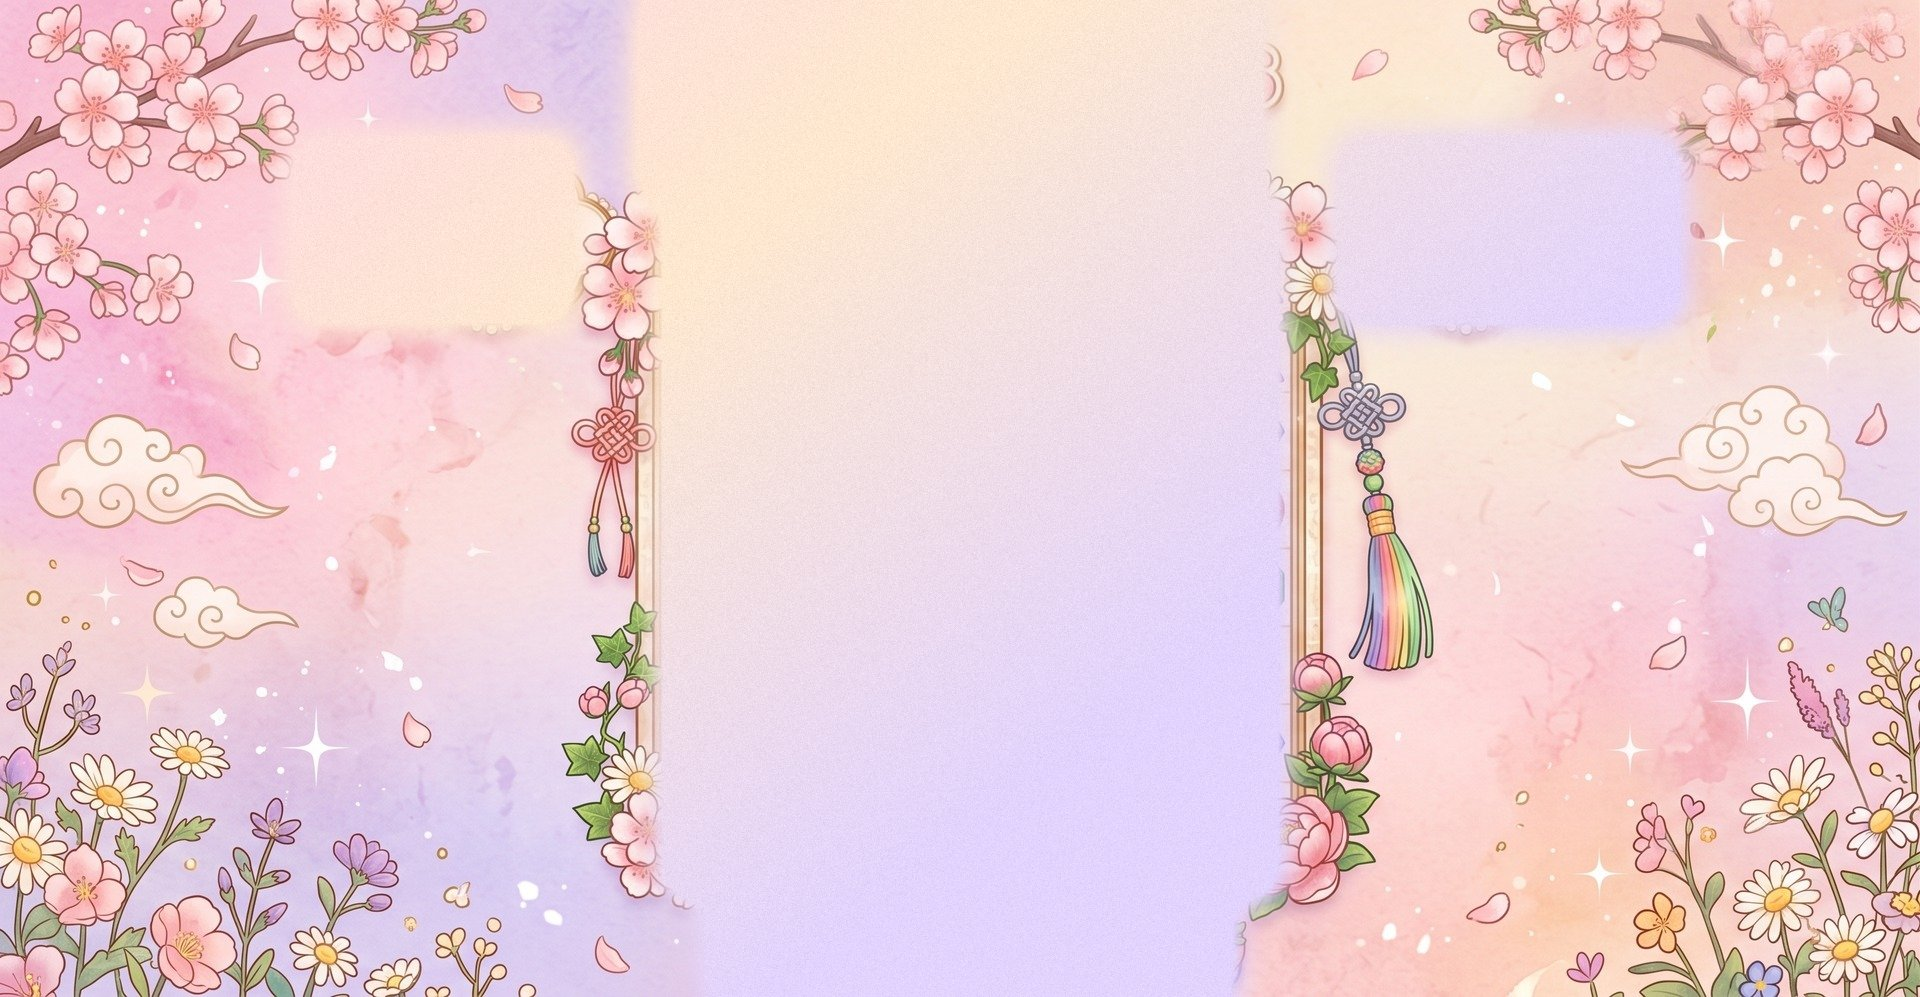
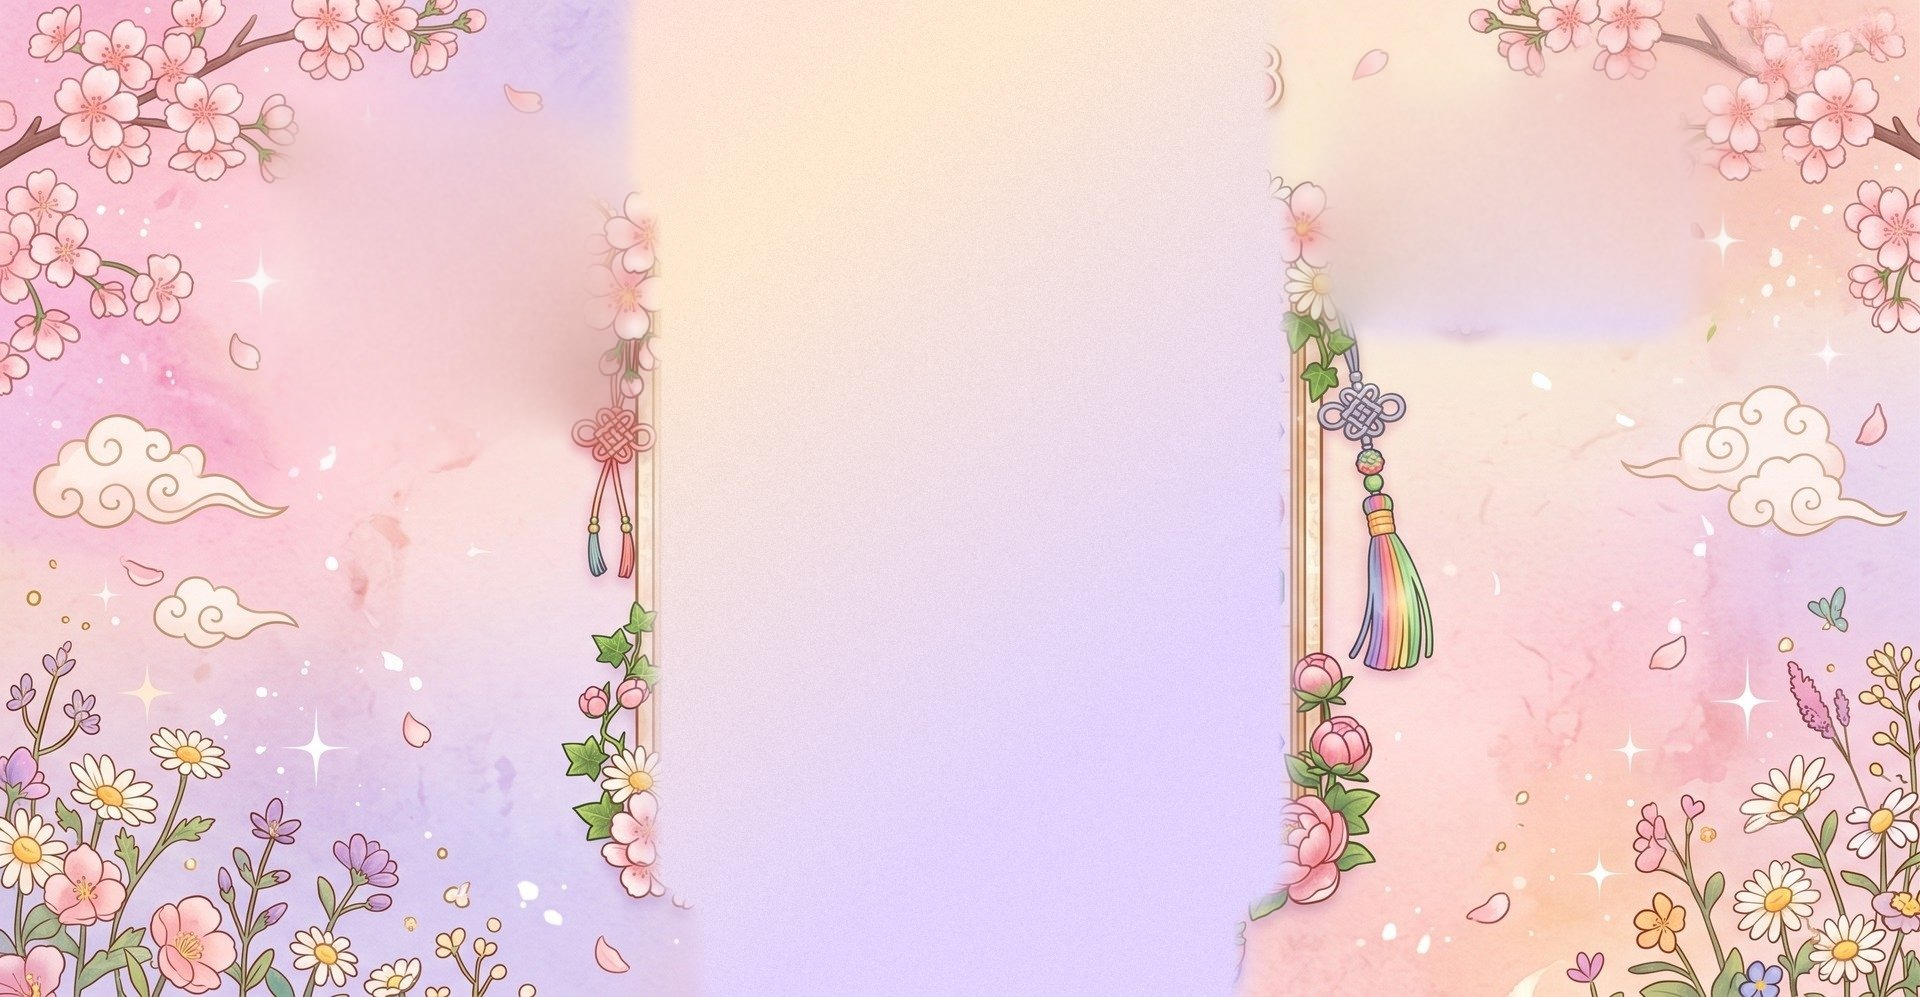
Fix background: remove flat placeholder boxes, restore decorations on mobile
The owner's mockup photo (public/bg-mockup.jpg) had two hard-edged,
flat-colored rectangles left over from whatever tool first produced it
-- visible as "boxes that don't fit" on wide/desktop viewports where
cover-fit doesn't crop them away. Fixed the image itself: located both
regions, filled them with a multi-resolution harmonic (Laplace)
diffusion fill seeded from the real surrounding gradient, then added
matching fine grain and soft watercolor-blotch noise so the fill
doesn't read as a flat patch next to the photo's own paper texture.

Separately, the photo's cover-fit sizing crops so aggressively on tall
portrait phones that the mockup's own edge decorations (tassels,
corner blossoms) fall entirely outside the visible window -- confirmed
against a user screenshot, and reproduced headlessly across several
viewport sizes. Restored drawCloud/drawSparkle/drawPetal/drawBranch/
drawTasselKnot in deco.ts (present before an earlier commit replaced
the procedural background with this photo, then removed them) and
added a viewport-relative decoration layer in bg.ts, drawn on top of
the photo only when cover-fit would hide more than about half the
image's width -- true portrait, not just a narrower desktop window --
so it can't be cropped out and doesn't double up with the photo's own
decorations on wider screens.

Changed region(s): [[0.6875, 0.1244, 0.9062, 0.342], [0.1875, 0.1555, 0.3438, 0.4353], [0.1562, 0.1555, 0.1875, 0.1866]]

diff --git a/src/bg.ts b/src/bg.ts
@@ -1,5 +1,31 @@
-// Page background: the owner's reference mockup image, drawn cover-fit. Falls
-// back to a plain gradient (matching the mockup's own tones) until it loads.
+// Page background: the owner's reference mockup image, drawn cover-fit. On a
+// narrow/tall (portrait phone) viewport, cover-fit crops so much off the sides
+// that the mockup's own edge decorations (tassels, corner blossoms) fall
+// entirely outside the visible window -- so on those aspect ratios a
+// procedural decoration layer (same look, viewport-relative so it can't be
+// cropped out) is drawn on top to restore them. Falls back to a plain
+// gradient (matching the mockup's own tones) until the image loads.
+
+import {
+  FLOWER_COLORS,
+  drawBranch,
+  drawCloud,
+  drawFlower,
+  drawLeaf,
+  drawPetal,
+  drawSparkle,
+  drawTasselKnot,
+} from './deco.ts';
+import { mulberry32 } from './board.ts';
+
+type Ctx2D = CanvasRenderingContext2D;
+
+const DAISY: [string, string] = ['#ffffff', '#ffd84d'];
+const LAVENDER: [string, string] = ['#d8c2f5', '#b393e0'];
+const PEONY_COLORS: Array<[string, string]> = [
+  ['#ffb6c9', '#e85d8a'],
+  ['#ffc2d6', '#ff6f91'],
+];
 
 let bgImage: HTMLImageElement | null = null;
 let bgImageReady = false;
@@ -25,6 +51,128 @@ function fillFallbackGradient(ctx: CanvasRenderingContext2D, w: number, h: numbe
   ctx.fillRect(0, 0, w, h);
 }
 
+function stem(ctx: Ctx2D, x0: number, y0: number, x1: number, y1: number, color: string, w: number): void {
+  ctx.save();
+  ctx.strokeStyle = color;
+  ctx.lineWidth = w;
+  ctx.lineCap = 'round';
+  ctx.beginPath();
+  ctx.moveTo(x0, y0);
+  ctx.quadraticCurveTo((x0 + x1) / 2 + (y0 - y1) * 0.08, (y0 + y1) / 2, x1, y1);
+  ctx.stroke();
+  ctx.restore();
+}
+
+/** A branch of cherry blossoms growing in from a page corner. */
+function blossomBranch(ctx: Ctx2D, cx: number, cy: number, dirX: number, dirY: number, len: number): void {
+  const angle = Math.atan2(dirY, dirX);
+  drawBranch(ctx, cx, cy, len, angle, '#8a5a42');
+  const blossoms = 5;
+  for (let i = 0; i < blossoms; i++) {
+    const t = 0.22 + (i / (blossoms - 1)) * 0.72;
+    const perp = i % 2 ? 1 : -1;
+    const bx = cx + dirX * len * t - dirY * perp * len * 0.05;
+    const by = cy + dirY * len * t + dirX * perp * len * 0.05;
+    const r = len * (0.07 + (i % 3) * 0.018);
+    const [petal, center] = FLOWER_COLORS[i % FLOWER_COLORS.length]!;
+    drawLeaf(ctx, bx, by, r * 1.4, angle - 0.9, '#9bc9a0');
+    drawFlower(ctx, bx, by, r, petal, center, 5, i * 0.7);
+  }
+}
+
+/** Viewport-relative decorations (tassels, blossom branches, scattered flowers) that
+ * can't be cropped out by the mockup photo's cover-fit, since they aren't part of it. */
+function drawProceduralDecoration(ctx: Ctx2D, w: number, h: number): void {
+  const rng = mulberry32(2026);
+  const unit = Math.min(w, h);
+
+  ctx.globalAlpha = 0.55;
+  for (let i = 0; i < 10; i++) {
+    const [petal] = FLOWER_COLORS[Math.floor(rng() * FLOWER_COLORS.length)]!;
+    drawPetal(ctx, rng() * w, rng() * h, unit * (0.01 + rng() * 0.012), rng() * Math.PI * 2, petal);
+  }
+
+  ctx.globalAlpha = 0.85;
+  for (let i = 0; i < 12; i++) {
+    drawSparkle(ctx, rng() * w, rng() * h, unit * (0.006 + rng() * 0.01), '#ffffff', 0.7 + rng() * 0.3);
+  }
+
+  // Traditional Korean cloud (구름) motifs, drifting mid-height on each side.
+  ctx.globalAlpha = 1;
+  drawCloud(ctx, w * 0.1, h * 0.36, unit * 0.16, '#c9943a', 0.3);
+  drawCloud(ctx, w * 0.06, h * 0.56, unit * 0.12, '#c9943a', 0.22);
+  drawCloud(ctx, w * 0.9, h * 0.34, unit * 0.15, '#c9943a', 0.28);
+  drawCloud(ctx, w * 0.94, h * 0.58, unit * 0.11, '#c9943a', 0.22);
+
+  // Scattered small flowers for general texture.
+  const count = Math.round((w * h) / 30000);
+  for (let i = 0; i < count; i++) {
+    const x = rng() * w;
+    const y = rng() * h;
+    const r = unit * (0.028 + rng() * 0.04);
+    const [petal, center] = FLOWER_COLORS[Math.floor(rng() * FLOWER_COLORS.length)]!;
+    ctx.globalAlpha = 0.5;
+    drawLeaf(ctx, x, y, r * 1.5, rng() * Math.PI * 2, '#9bc9a0');
+    drawFlower(ctx, x, y, r, petal, center, 5, rng() * Math.PI);
+  }
+
+  // Top corners: blossom branches reaching in.
+  ctx.globalAlpha = 0.95;
+  blossomBranch(ctx, 0, 0, 1, 0.22, unit * 0.34);
+  blossomBranch(ctx, w, 0, -1, 0.22, unit * 0.34);
+
+  // Hanging knot-tassel ornaments flanking the board (approximate position --
+  // the board itself is centered by CSS grid, so this estimates where its
+  // edges typically sit rather than reading the live layout).
+  ctx.globalAlpha = 0.95;
+  const tasselY = h * 0.3;
+  const tasselSize = unit * 0.16;
+  drawTasselKnot(ctx, w / 2 - unit * 0.47, tasselY, tasselSize, '#d98fae', ['#ff9ab0', '#ff7a98']);
+  drawTasselKnot(ctx, w / 2 + unit * 0.47, tasselY, tasselSize, '#8899b0', ['#ff9ab0', '#ffd84d', '#7ec8ff', '#c59bff']);
+
+  // Bottom-left: a daisy/wildflower patch.
+  ctx.globalAlpha = 0.95;
+  {
+    const bx = 0;
+    const by = h;
+    for (let i = 0; i < 6; i++) {
+      const sx = bx + unit * (0.02 + i * 0.028);
+      const sy = by - unit * (0.03 + (i % 3) * 0.02);
+      stem(ctx, bx + unit * 0.01, by, sx, sy, '#6fae7a', Math.max(1.5, unit * 0.0035));
+      const isAccent = i % 3 === 1;
+      const [petal, center] = isAccent ? LAVENDER : DAISY;
+      drawFlower(ctx, sx, sy, unit * (0.022 + (i % 2) * 0.008), petal, center, isAccent ? 6 : 10, i);
+    }
+  }
+
+  // Bottom-right: a fuller peony cluster.
+  ctx.globalAlpha = 0.95;
+  {
+    const bx = w;
+    const by = h;
+    const blooms: Array<[number, number, number]> = [
+      [-0.1, -0.09, 0.05],
+      [-0.045, -0.055, 0.04],
+      [-0.09, -0.03, 0.032],
+    ];
+    for (const [dx, dy, r] of blooms) {
+      const px = bx + unit * dx;
+      const py = by + unit * dy;
+      drawLeaf(ctx, px, py, unit * r * 1.6, Math.PI * 0.8, '#7fd391');
+      drawLeaf(ctx, px, py, unit * r * 1.3, Math.PI * 1.2, '#9bc9a0');
+    }
+    for (let i = 0; i < blooms.length; i++) {
+      const [dx, dy, r] = blooms[i]!;
+      const [petal, center] = PEONY_COLORS[i % PEONY_COLORS.length]!;
+      drawFlower(ctx, bx + unit * dx, by + unit * dy, unit * r, petal, center, 9, i * 0.5);
+    }
+    drawFlower(ctx, bx - unit * 0.14, by - unit * 0.02, unit * 0.02, ...DAISY, 10, 1);
+    drawFlower(ctx, bx - unit * 0.02, by - unit * 0.12, unit * 0.018, ...DAISY, 10, 2);
+  }
+
+  ctx.globalAlpha = 1;
+}
+
 /** Paints the page background from the reference mockup image, cover-fit and centered. */
 export function drawBackground(canvas: HTMLCanvasElement): void {
   const w = window.innerWidth;
@@ -48,4 +196,15 @@ export function drawBackground(canvas: HTMLCanvasElement): void {
   const dx = (w - dw) / 2;
   const dy = (h - dh) / 2;
   ctx.drawImage(img, dx, dy, dw, dh);
+
+  // The mockup's own tassels sit about 31% of its width in from each edge.
+  // Cover-fit only crops them out once the visible fraction of the image's
+  // width drops below that -- true portrait phones/tablets, not a merely
+  // wide-but-not-square desktop window. Below that point, restore them
+  // procedurally instead of leaving them cropped off screen.
+  const imageAspect = img.naturalWidth / img.naturalHeight;
+  const visibleWidthFraction = Math.min(1, w / h / imageAspect);
+  if (visibleWidthFraction < 0.5) {
+    drawProceduralDecoration(ctx, w, h);
+  }
 }

diff --git a/src/deco.ts b/src/deco.ts
@@ -73,3 +73,146 @@ export function drawLeaf(ctx: Ctx2D, x: number, y: number, len: number, angle: n
   ctx.stroke();
   ctx.restore();
 }
+
+/** Traditional Korean cloud (구름) motif. */
+export function drawCloud(ctx: Ctx2D, x: number, y: number, w: number, color: string, alpha = 0.4): void {
+  ctx.save();
+  ctx.translate(x, y);
+  ctx.globalAlpha *= alpha;
+  ctx.strokeStyle = color;
+  ctx.lineCap = 'round';
+  ctx.lineJoin = 'round';
+  const r = w * 0.17;
+  ctx.lineWidth = Math.max(1.5, r * 0.26);
+
+  // A continuous scalloped silhouette: three overlapping lobes along a shared
+  // baseline, traced as one connected outline rather than separate rings.
+  const lobes: Array<[number, number]> = [
+    [-w * 0.26, 0.85],
+    [0, 1],
+    [w * 0.26, 0.85],
+  ];
+  ctx.beginPath();
+  lobes.forEach(([lx, scale], i) => {
+    const lr = r * scale;
+    if (i === 0) ctx.moveTo(lx - lr, 0);
+    ctx.arc(lx, 0, lr, Math.PI, Math.PI * 2, false);
+  });
+  const [lastX, lastScale] = lobes[lobes.length - 1]!;
+  ctx.lineTo(lastX + r * lastScale * 0.3, r * 0.3);
+  const [firstX, firstScale] = lobes[0]!;
+  ctx.lineTo(firstX - r * firstScale * 0.3, r * 0.3);
+  ctx.closePath();
+  ctx.stroke();
+
+  const swirl = (sx: number, sy: number, dir: number): void => {
+    ctx.beginPath();
+    ctx.moveTo(sx, sy);
+    ctx.bezierCurveTo(
+      sx + dir * r * 0.7,
+      sy - r * 0.5,
+      sx + dir * r * 0.1,
+      sy + r * 0.7,
+      sx + dir * r * 1.0,
+      sy + r * 0.35,
+    );
+    ctx.stroke();
+  };
+  swirl(-w * 0.4, 0, -1);
+  swirl(w * 0.4, -r * 0.55, 1);
+  ctx.restore();
+}
+
+/** Small 4-point sparkle/star accent. */
+export function drawSparkle(ctx: Ctx2D, x: number, y: number, s: number, color: string, alpha = 1): void {
+  ctx.save();
+  ctx.globalAlpha *= alpha;
+  ctx.fillStyle = color;
+  ctx.beginPath();
+  ctx.moveTo(x, y - s);
+  ctx.quadraticCurveTo(x, y, x + s, y);
+  ctx.quadraticCurveTo(x, y, x, y + s);
+  ctx.quadraticCurveTo(x, y, x - s, y);
+  ctx.quadraticCurveTo(x, y, x, y - s);
+  ctx.fill();
+  ctx.restore();
+}
+
+/** A single falling petal, drifting in open space. */
+export function drawPetal(ctx: Ctx2D, x: number, y: number, s: number, angle: number, color: string): void {
+  ctx.save();
+  ctx.translate(x, y);
+  ctx.rotate(angle);
+  ctx.fillStyle = color;
+  ctx.beginPath();
+  ctx.ellipse(0, 0, s * 0.42, s, 0, 0, Math.PI * 2);
+  ctx.fill();
+  ctx.restore();
+}
+
+/** A blossom-branch: a curved woody stem with a couple of twigs, for corner clusters. */
+export function drawBranch(ctx: Ctx2D, x: number, y: number, len: number, angle: number, color: string): void {
+  ctx.save();
+  ctx.translate(x, y);
+  ctx.rotate(angle);
+  ctx.strokeStyle = color;
+  ctx.lineCap = 'round';
+  ctx.lineWidth = Math.max(2, len * 0.035);
+  ctx.beginPath();
+  ctx.moveTo(0, 0);
+  ctx.quadraticCurveTo(len * 0.5, -len * 0.14, len, -len * 0.02);
+  ctx.stroke();
+  ctx.lineWidth = Math.max(1.5, len * 0.022);
+  ctx.beginPath();
+  ctx.moveTo(len * 0.38, -len * 0.07);
+  ctx.quadraticCurveTo(len * 0.48, -len * 0.26, len * 0.6, -len * 0.3);
+  ctx.stroke();
+  ctx.beginPath();
+  ctx.moveTo(len * 0.68, -len * 0.04);
+  ctx.quadraticCurveTo(len * 0.76, -len * 0.2, len * 0.9, -len * 0.22);
+  ctx.stroke();
+  ctx.restore();
+}
+
+/** A hanging ornamental knot + tassel (norigae-style), for flanking the board. */
+export function drawTasselKnot(ctx: Ctx2D, x: number, y: number, s: number, cord: string, strands: string[]): void {
+  ctx.save();
+  ctx.translate(x, y);
+
+  ctx.strokeStyle = cord;
+  ctx.lineCap = 'round';
+  ctx.lineWidth = Math.max(2, s * 0.05);
+  ctx.beginPath();
+  ctx.moveTo(0, -s * 0.95);
+  ctx.quadraticCurveTo(-s * 0.15, -s * 0.55, 0, -s * 0.28);
+  ctx.stroke();
+
+  ctx.lineWidth = Math.max(1.5, s * 0.045);
+  for (let i = 0; i < 3; i++) {
+    const a = (i / 3) * Math.PI * 2;
+    ctx.beginPath();
+    ctx.ellipse(Math.cos(a) * s * 0.09, -s * 0.1 + Math.sin(a) * s * 0.09, s * 0.16, s * 0.1, a, 0, Math.PI * 2);
+    ctx.stroke();
+  }
+
+  ctx.fillStyle = cord;
+  ctx.beginPath();
+  ctx.arc(0, s * 0.03, s * 0.09, 0, Math.PI * 2);
+  ctx.fill();
+  ctx.strokeStyle = 'rgba(255,255,255,0.55)';
+  ctx.lineWidth = Math.max(1, s * 0.016);
+  ctx.stroke();
+
+  const n = strands.length;
+  for (let i = 0; i < n; i++) {
+    const t = n === 1 ? 0.5 : i / (n - 1);
+    const dx = (t - 0.5) * s * 0.55;
+    ctx.strokeStyle = strands[i % strands.length]!;
+    ctx.lineWidth = Math.max(1.5, s * 0.035);
+    ctx.beginPath();
+    ctx.moveTo(0, s * 0.11);
+    ctx.quadraticCurveTo(dx * 0.6, s * 0.38, dx, s * 0.68);
+    ctx.stroke();
+  }
+  ctx.restore();
+}
